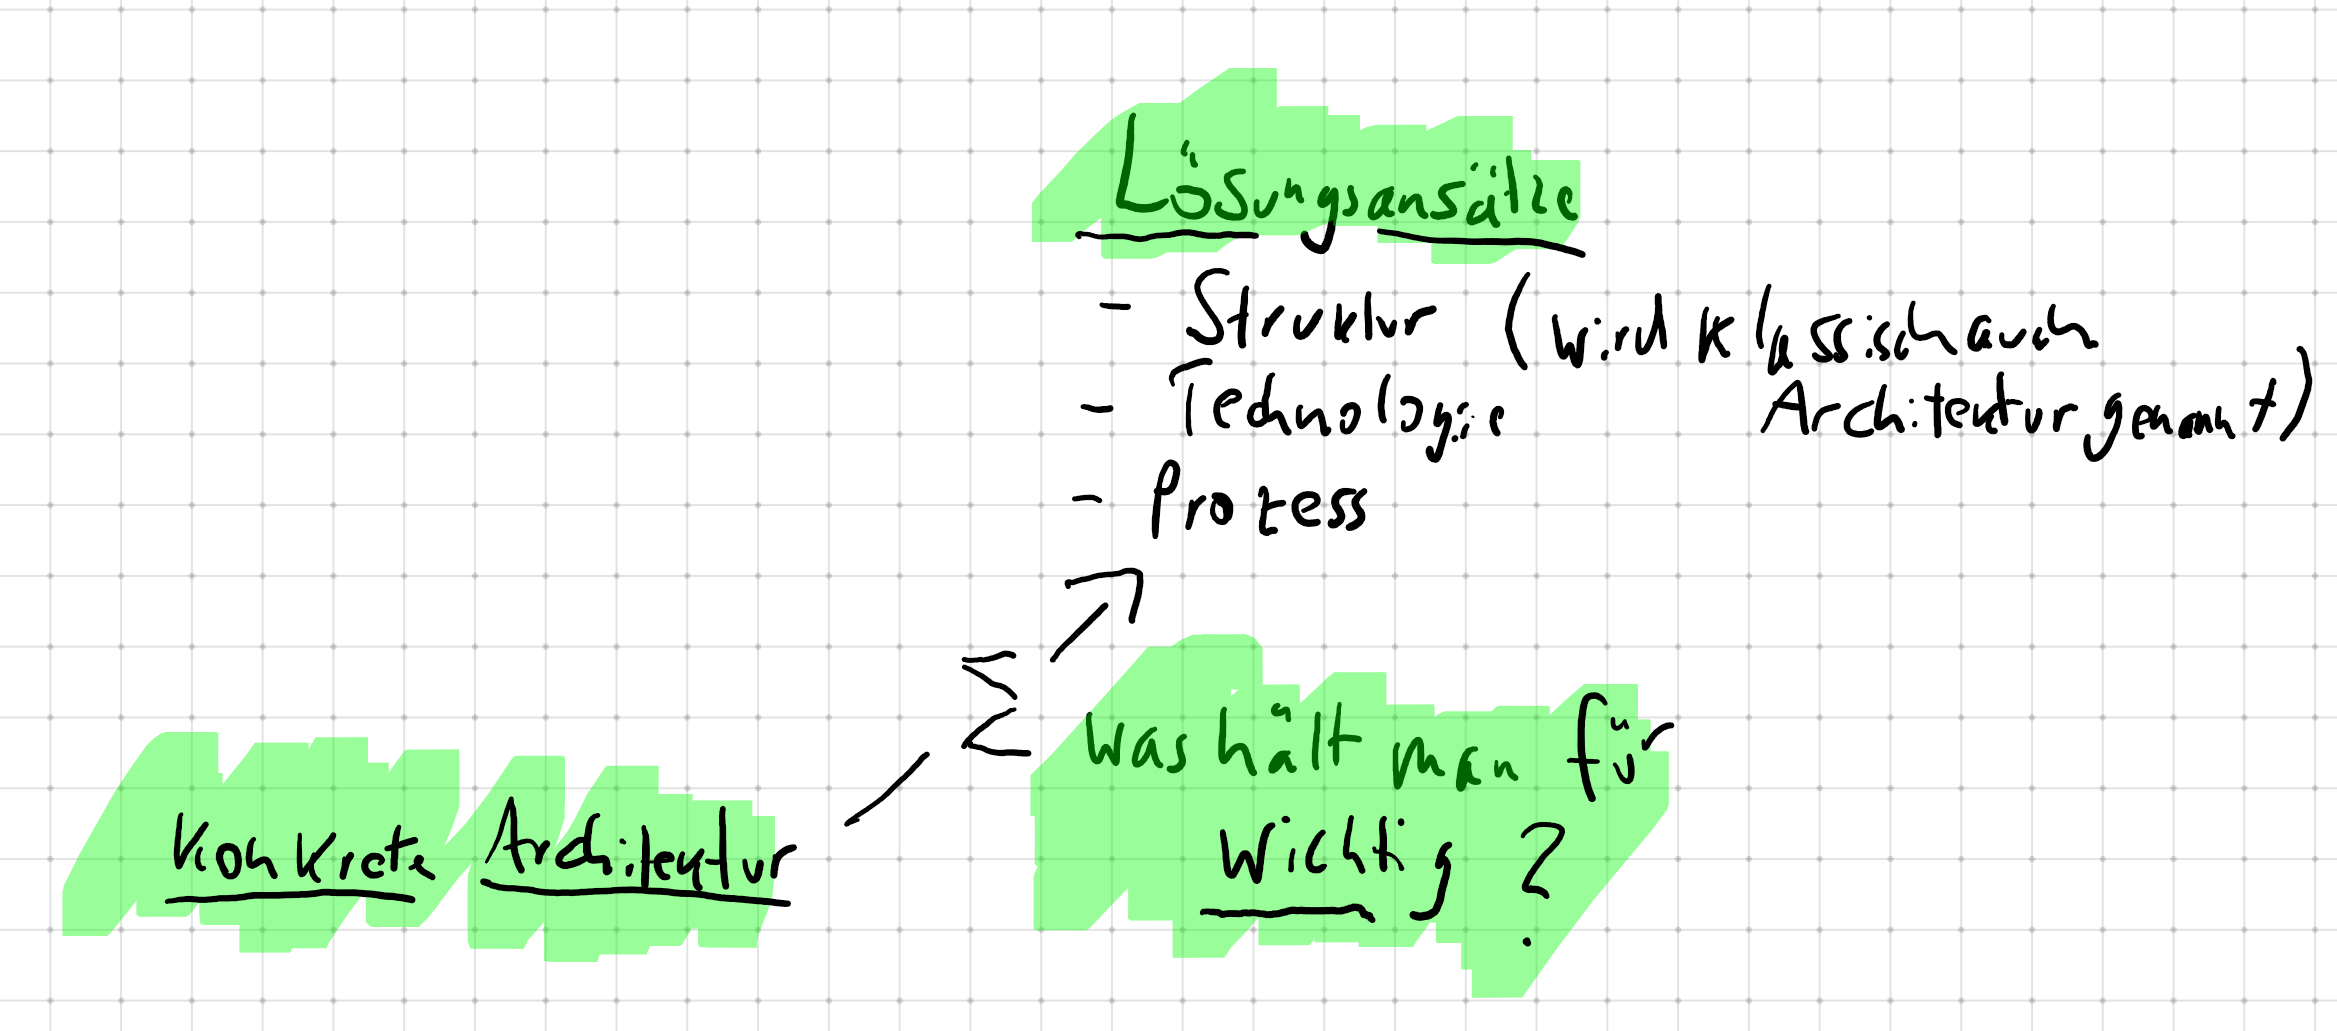
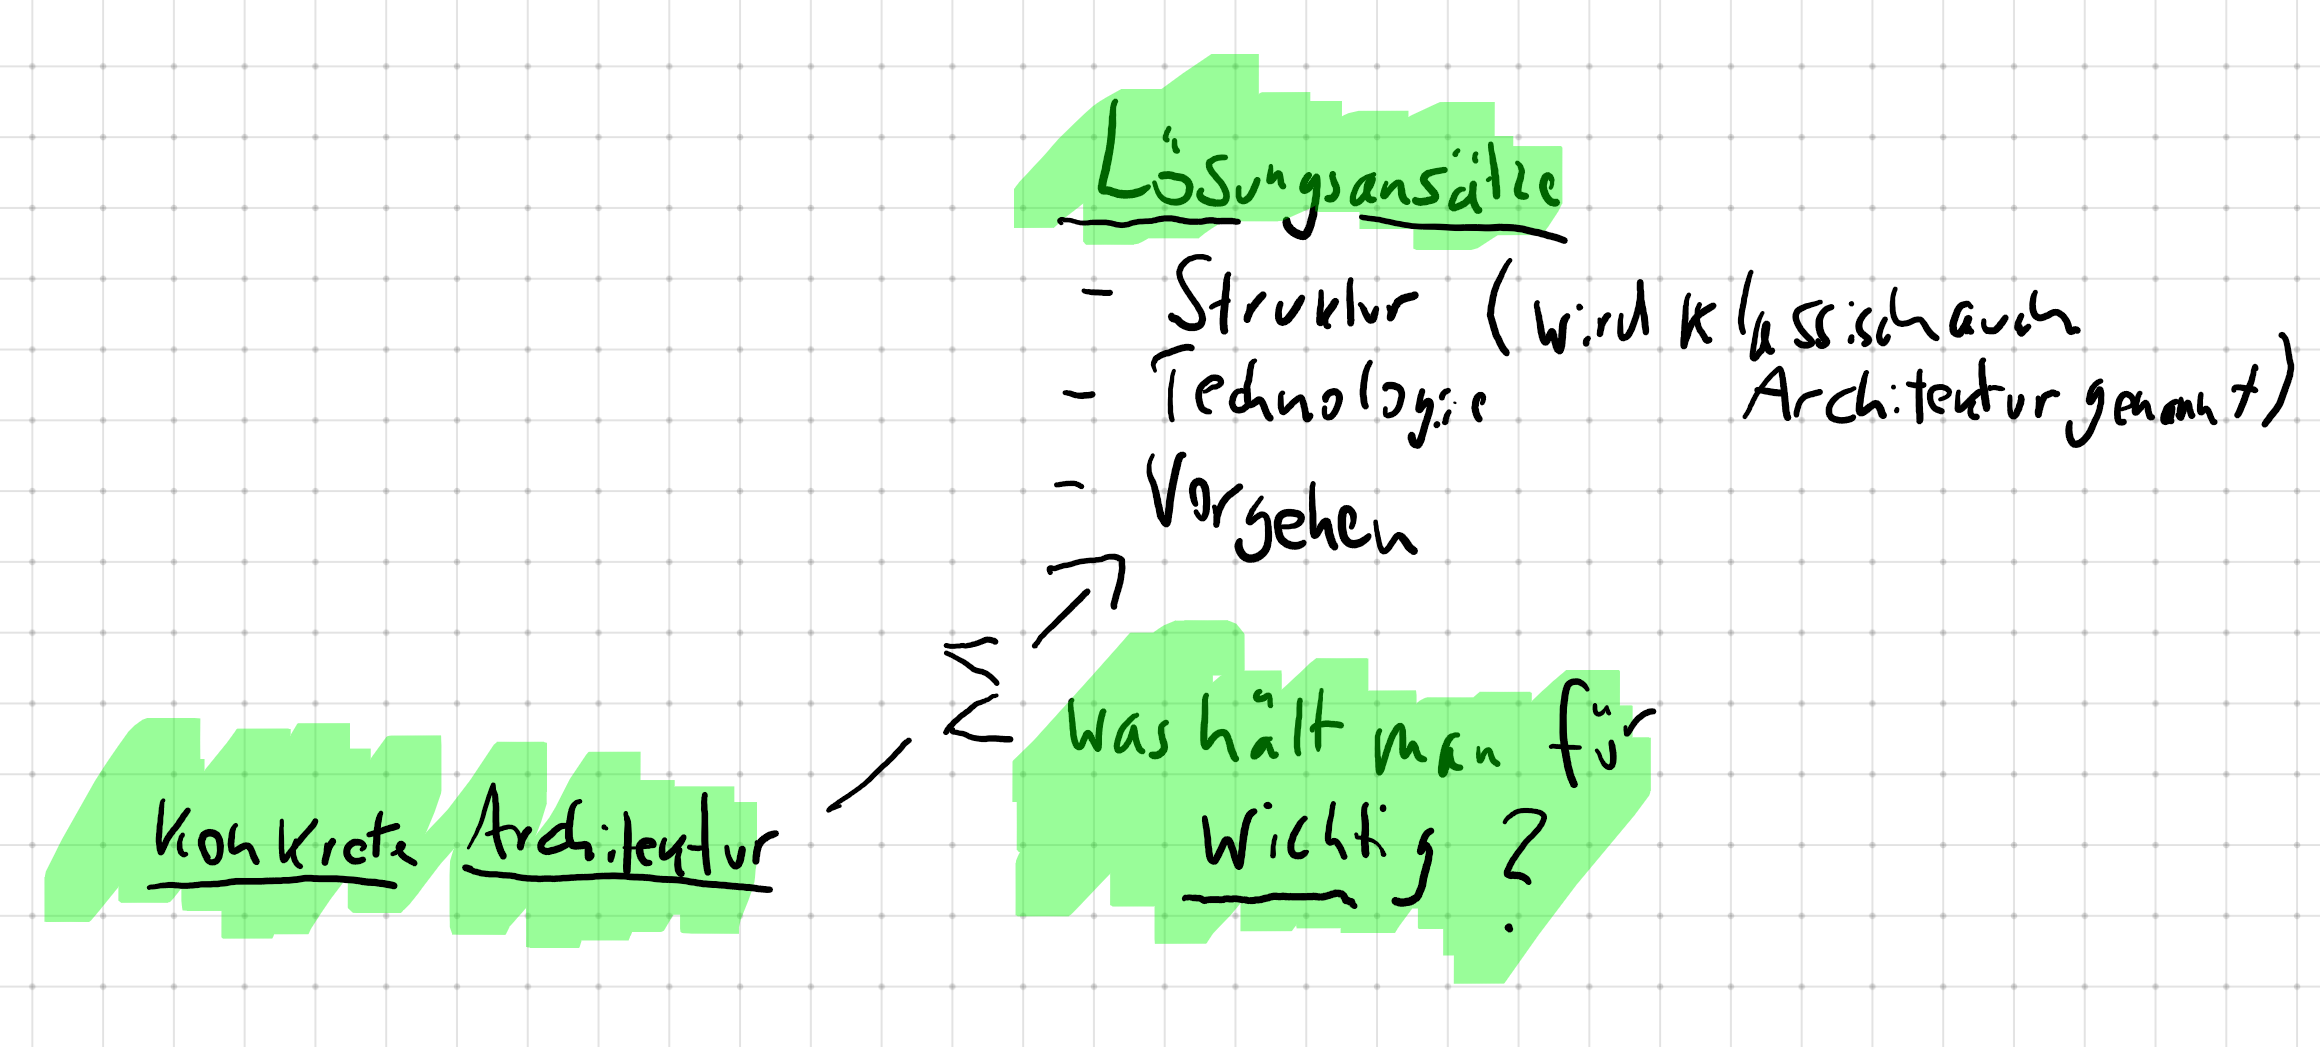
details

diff --git a/2020_jax_spa.html b/2020_jax_spa.html
@@ -618,7 +618,7 @@ Entscheidungen, die die Umsetzbarkeit fundamental beeinflussen _können(!)_
 1. State Management (Technologie)
 1. Typing (Technologie)
 1. CSS Framework (Bootstrap, Tailwind, kein Framework) (Technologie)
-1. Wie arbeiten Leute zusammen? (hängt mit Struktur zusammen) (Prozess)
+1. Wie arbeiten Leute zusammen? (hängt mit Struktur zusammen) (Vorgehen)
 
             </textarea>
         </section>
